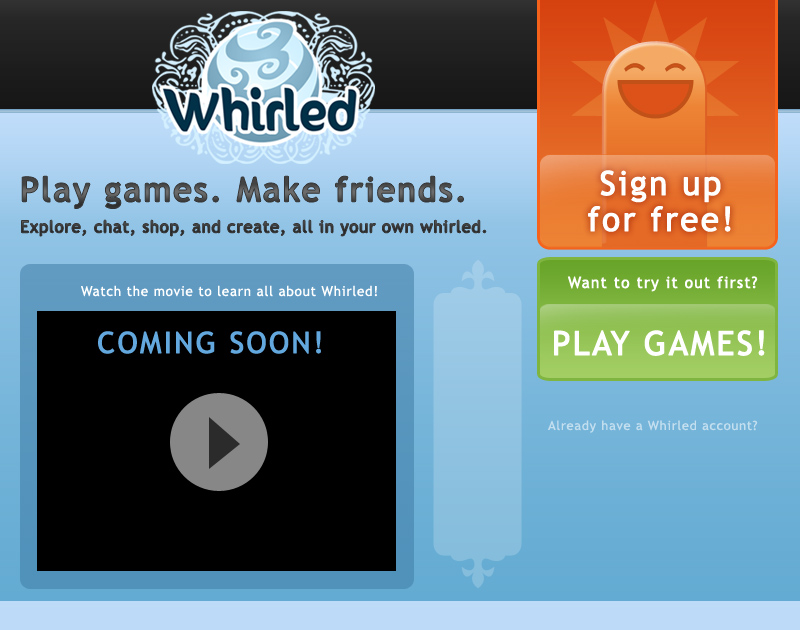
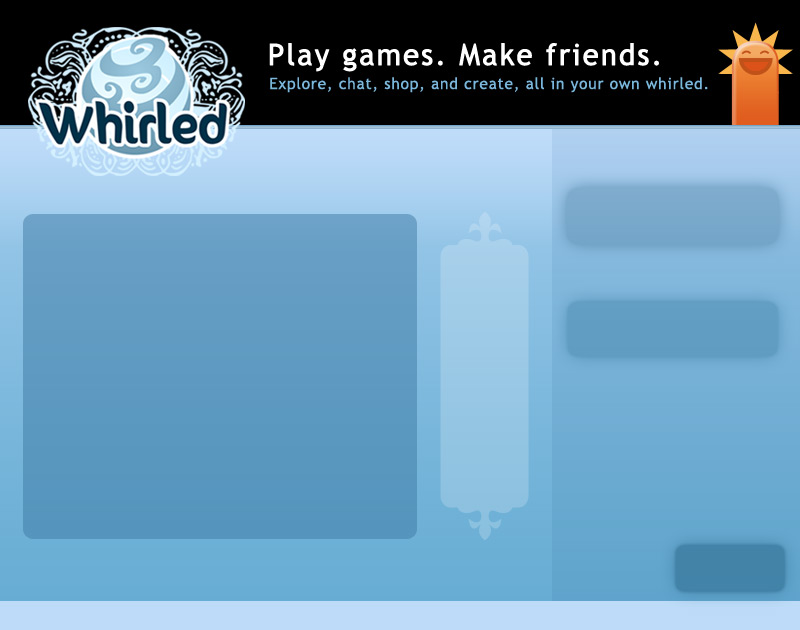
Updated landing page. A bit more to come.

diff --git a/pages/css/me.css b/pages/css/me.css
@@ -173,28 +173,6 @@
   height: 630px;
 }
 
-.whatIsTheWhirled .Logon {
-  background-image: url(/images/landing/signin.jpg);
-  width: 105px;
-  height: 42px;
-  border: none;
-}
-
-.whatIsTheWhirled .Logon:hover {
-  background-image: url(/images/landing/signin_hover.jpg);
-}
-
-.whatIsTheWhirled .logonPanel {
-  color: #FFFFFF;
-  font-size: 14px;
-}
-
-.whatIsTheWhirled .logonPanel .gwt-TextBox,
-.whatIsTheWhirled .logonPanel .gwt-PasswordTextBox {
-  font-size: 16px;
-  width: 175px;
-}
-
 .whatIsTheWhirled .Stats {
   color: #FFFFFF;
   width: 75px;
@@ -213,6 +191,40 @@
   font-weight: bold;
   text-align: center;
   vertical-align: top;
+}
+
+.whatIsTheWhirled .Right .Label {
+  font-family: "Trebuchet MS", Verdana, Arial, Helvetica, sans-serif;
+  font-size: 16px;
+  font-weight: bold;
+  color: #2E6F97;
+  height: 25px;
+  padding-left: 17px;
+}
+
+.whatIsTheWhirled .Right .LoginTip {
+  font-size: 12px;
+  font-weight: bold;
+  color: #FFFFFF;
+  height: 20px;
+  padding-left: 17px;
+}
+
+.whatIsTheWhirled .logonPanel {
+  color: #FFFFFF;
+  font-size: 12px;
+  margin: 0px 0px 5px 15px;
+  height: 88px;
+}
+
+.whatIsTheWhirled .logonPanel .gwt-TextBox,
+.whatIsTheWhirled .logonPanel .gwt-PasswordTextBox {
+  font-size: 16px;
+  width: 175px;
+}
+
+.whatIsTheWhirled .Login {
+  margin-left: 115px;
 }
 
 .editAccount .Header {

diff --git a/pages/css/gwt.css b/pages/css/gwt.css
@@ -162,6 +162,11 @@ img, embed, applet, object {
 
 .gwt-PushButton {
   text-align: center;
+  vertical-align: middle;
+}
+
+.gwt-PushButton input {
+  border: none;
 }
 
 .gwt-PushButton-up-hovering, .gwt-PushButton-down-hovering {

diff --git a/src/gwt/client/me/WhatIsTheWhirled.java b/src/gwt/client/me/WhatIsTheWhirled.java
@@ -3,23 +3,28 @@
 
 package client.me;
 
+import com.google.gwt.core.client.GWT;
 import com.google.gwt.user.client.rpc.AsyncCallback;
 import com.google.gwt.user.client.ui.AbsolutePanel;
 import com.google.gwt.user.client.ui.Button;
-import com.google.gwt.user.client.ui.ClickListener;
 import com.google.gwt.user.client.ui.FlexTable;
 import com.google.gwt.user.client.ui.FlowPanel;
+import com.google.gwt.user.client.ui.HasAlignment;
 import com.google.gwt.user.client.ui.Image;
 import com.google.gwt.user.client.ui.Label;
+import com.google.gwt.user.client.ui.PushButton;
 import com.google.gwt.user.client.ui.RootPanel;
 import com.google.gwt.user.client.ui.Widget;
 
+import com.threerings.gwt.ui.WidgetUtil;
+
 import com.threerings.msoy.web.data.WhatIsWhirledData;
 
+import client.images.landing.LandingImages;
 import client.shell.Application;
+import client.shell.Frame;
 import client.shell.LogonPanel;
 import client.shell.Page;
-import client.shell.Frame;
 import client.util.MsoyUI;
 
 /**
@@ -31,23 +36,36 @@ public class WhatIsTheWhirled extends AbsolutePanel
     {
         setStyleName("whatIsTheWhirled");
 
-        add(MsoyUI.createActionImage("/images/landing/signup.jpg", new ClickListener() {
-            public void onClick (Widget widget) {
-                Application.go(Page.ACCOUNT, "create");
-            }
-        }), 540, 152);
+        FlowPanel right = new FlowPanel();
+        right.setStyleName("Right");
+        right.setWidth(RIGHT_COLUMN_WIDTH + "px");
+        add(right, RIGHT_COLUMN_X, HEADER_HEIGHT);
 
-        add(MsoyUI.createActionImage("/images/landing/playgames.jpg", new ClickListener() {
-            public void onClick (Widget widget) {
-                Application.go(Page.GAMES, "");
-            }
-        }), 540, 303);
+        right.add(WidgetUtil.makeShim(10, 34));
 
-        Button logon = new Button("");
-        logon.addStyleName("Logon");
-        add(logon, 674, 551);
+        right.add(MsoyUI.createLabel(CMe.msgs.whatFree(), "Label"));
+        PushButton signup = new PushButton(_images.signup().createImage(),
+                                           Application.createLinkListener(Page.ACCOUNT, "create"));
+        signup.getUpHoveringFace().setImage(_images.signup_over().createImage());
+        right.add(signup);
 
-        add(new LogonPanel(false, logon), 555, 440);
+        right.add(WidgetUtil.makeShim(10, 35));
+
+        right.add(MsoyUI.createLabel(CMe.msgs.whatTry(), "Label"));
+        PushButton play = new PushButton(_images.playgames().createImage(),
+                                         Application.createLinkListener(Page.GAMES, ""));
+        play.getUpHoveringFace().setImage(_images.playgames_over().createImage());
+        right.add(play);
+
+        right.add(WidgetUtil.makeShim(10, 78));
+
+        right.add(MsoyUI.createLabel(CMe.msgs.whatHave(), "LoginTip"));
+
+        PushButton login = new PushButton(_images.login().createImage());
+        login.addStyleName("Login");
+        login.getUpHoveringFace().setImage(_images.login_over().createImage());
+        right.add(new LogonPanel(false, login));
+        right.add(login);
 
         CMe.worldsvc.getWhatIsWhirled(new AsyncCallback() {
             public void onSuccess (Object result) {
@@ -74,10 +92,22 @@ public class WhatIsTheWhirled extends AbsolutePanel
             bits.setText(row+1, 0, LABELS[ii]);
             bits.getFlexCellFormatter().setStyleName(row+1, 0, "Label");
         }
-        add(bits, 440, 300);
+        add(bits, 448, 245);
     }
 
     protected static final String[] LABELS = {
         CMe.msgs.dataPlayers(), CMe.msgs.dataPlaces(), CMe.msgs.dataGames()
     };
+
+    /** Our screenshot images. */
+    protected static LandingImages _images = (LandingImages)GWT.create(LandingImages.class);
+
+    protected static final int WIDTH = 800;
+    protected static final int HEIGHT = 630;
+
+    protected static final int HEADER_HEIGHT = 130;
+    protected static final int FOOTER_HEIGHT = 28;
+
+    protected static final int RIGHT_COLUMN_X = 553;
+    protected static final int RIGHT_COLUMN_WIDTH = 240;
 }

diff --git a/src/gwt/client/images/landing/LandingImages.java b/src/gwt/client/images/landing/LandingImages.java
@@ -1,0 +1,43 @@
+//
+// $Id$
+
+package client.images.landing;
+
+import com.google.gwt.user.client.ui.AbstractImagePrototype;
+import com.google.gwt.user.client.ui.ImageBundle;
+
+/**
+ * Contains images used by the WhatIsWhirled panel.
+ */
+public interface LandingImages extends ImageBundle
+{
+    /**
+     * @gwt.resource login.png
+     */
+    AbstractImagePrototype login ();
+
+    /**
+     * @gwt.resource login_over.png
+     */
+    AbstractImagePrototype login_over ();
+
+    /**
+     * @gwt.resource signup.png
+     */
+    AbstractImagePrototype signup ();
+
+    /**
+     * @gwt.resource signup_over.png
+     */
+    AbstractImagePrototype signup_over ();
+
+    /**
+     * @gwt.resource playgames.png
+     */
+    AbstractImagePrototype playgames ();
+
+    /**
+     * @gwt.resource playgames_over.png
+     */
+    AbstractImagePrototype playgames_over ();
+}

diff --git a/src/gwt/client/shell/LogonPanel.java b/src/gwt/client/shell/LogonPanel.java
@@ -5,6 +5,7 @@ package client.shell;
 
 import com.google.gwt.user.client.rpc.AsyncCallback;
 import com.google.gwt.user.client.ui.Button;
+import com.google.gwt.user.client.ui.ButtonBase;
 import com.google.gwt.user.client.ui.ClickListener;
 import com.google.gwt.user.client.ui.Label;
 import com.google.gwt.user.client.ui.PasswordTextBox;
@@ -34,7 +35,7 @@ public class LogonPanel extends SmartTable
         this(headerMode, new Button(CShell.cmsgs.logonLogon()));
     }
 
-    public LogonPanel (boolean headerMode, Button logon)
+    public LogonPanel (boolean headerMode, ButtonBase logon)
     {
         super("logonPanel", 0, 2);
 
